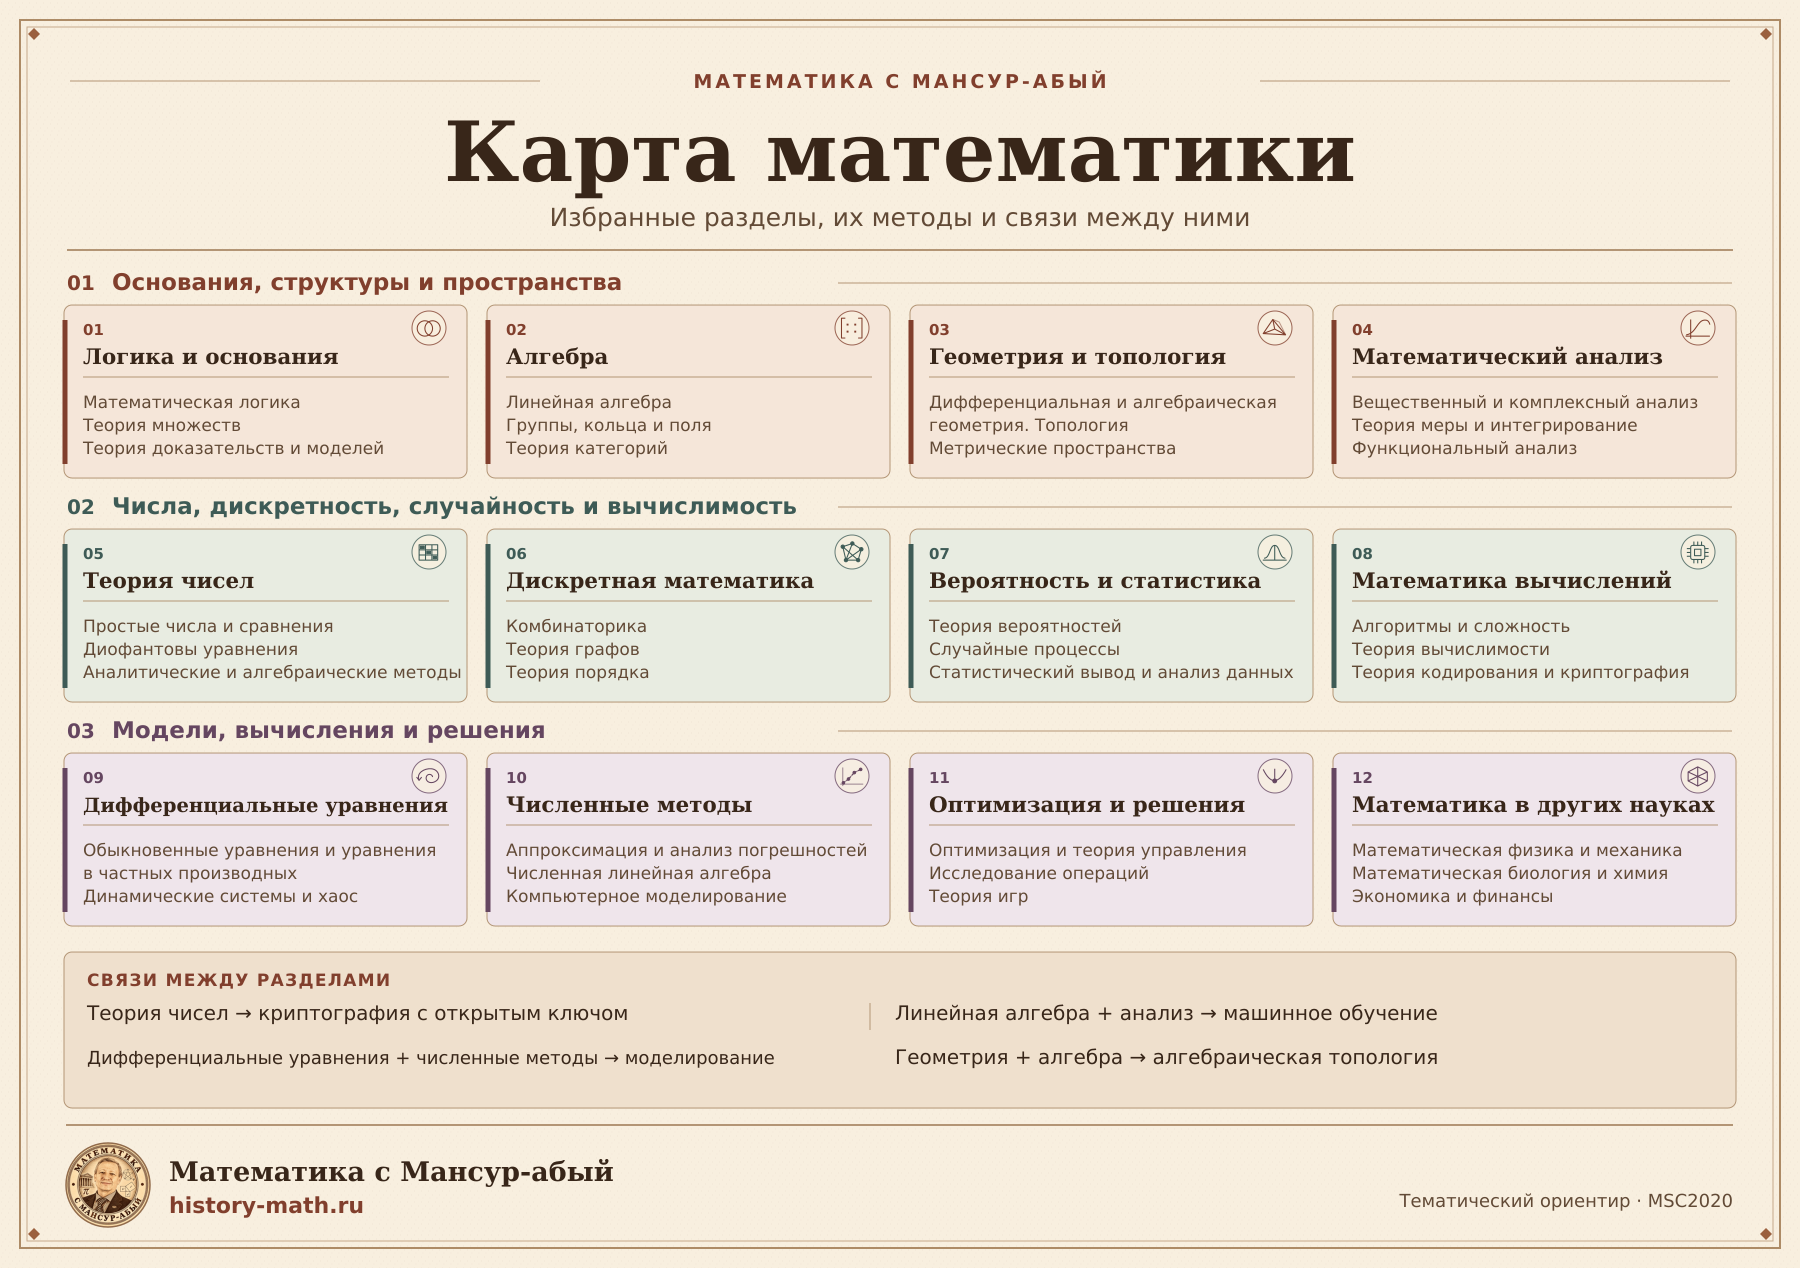
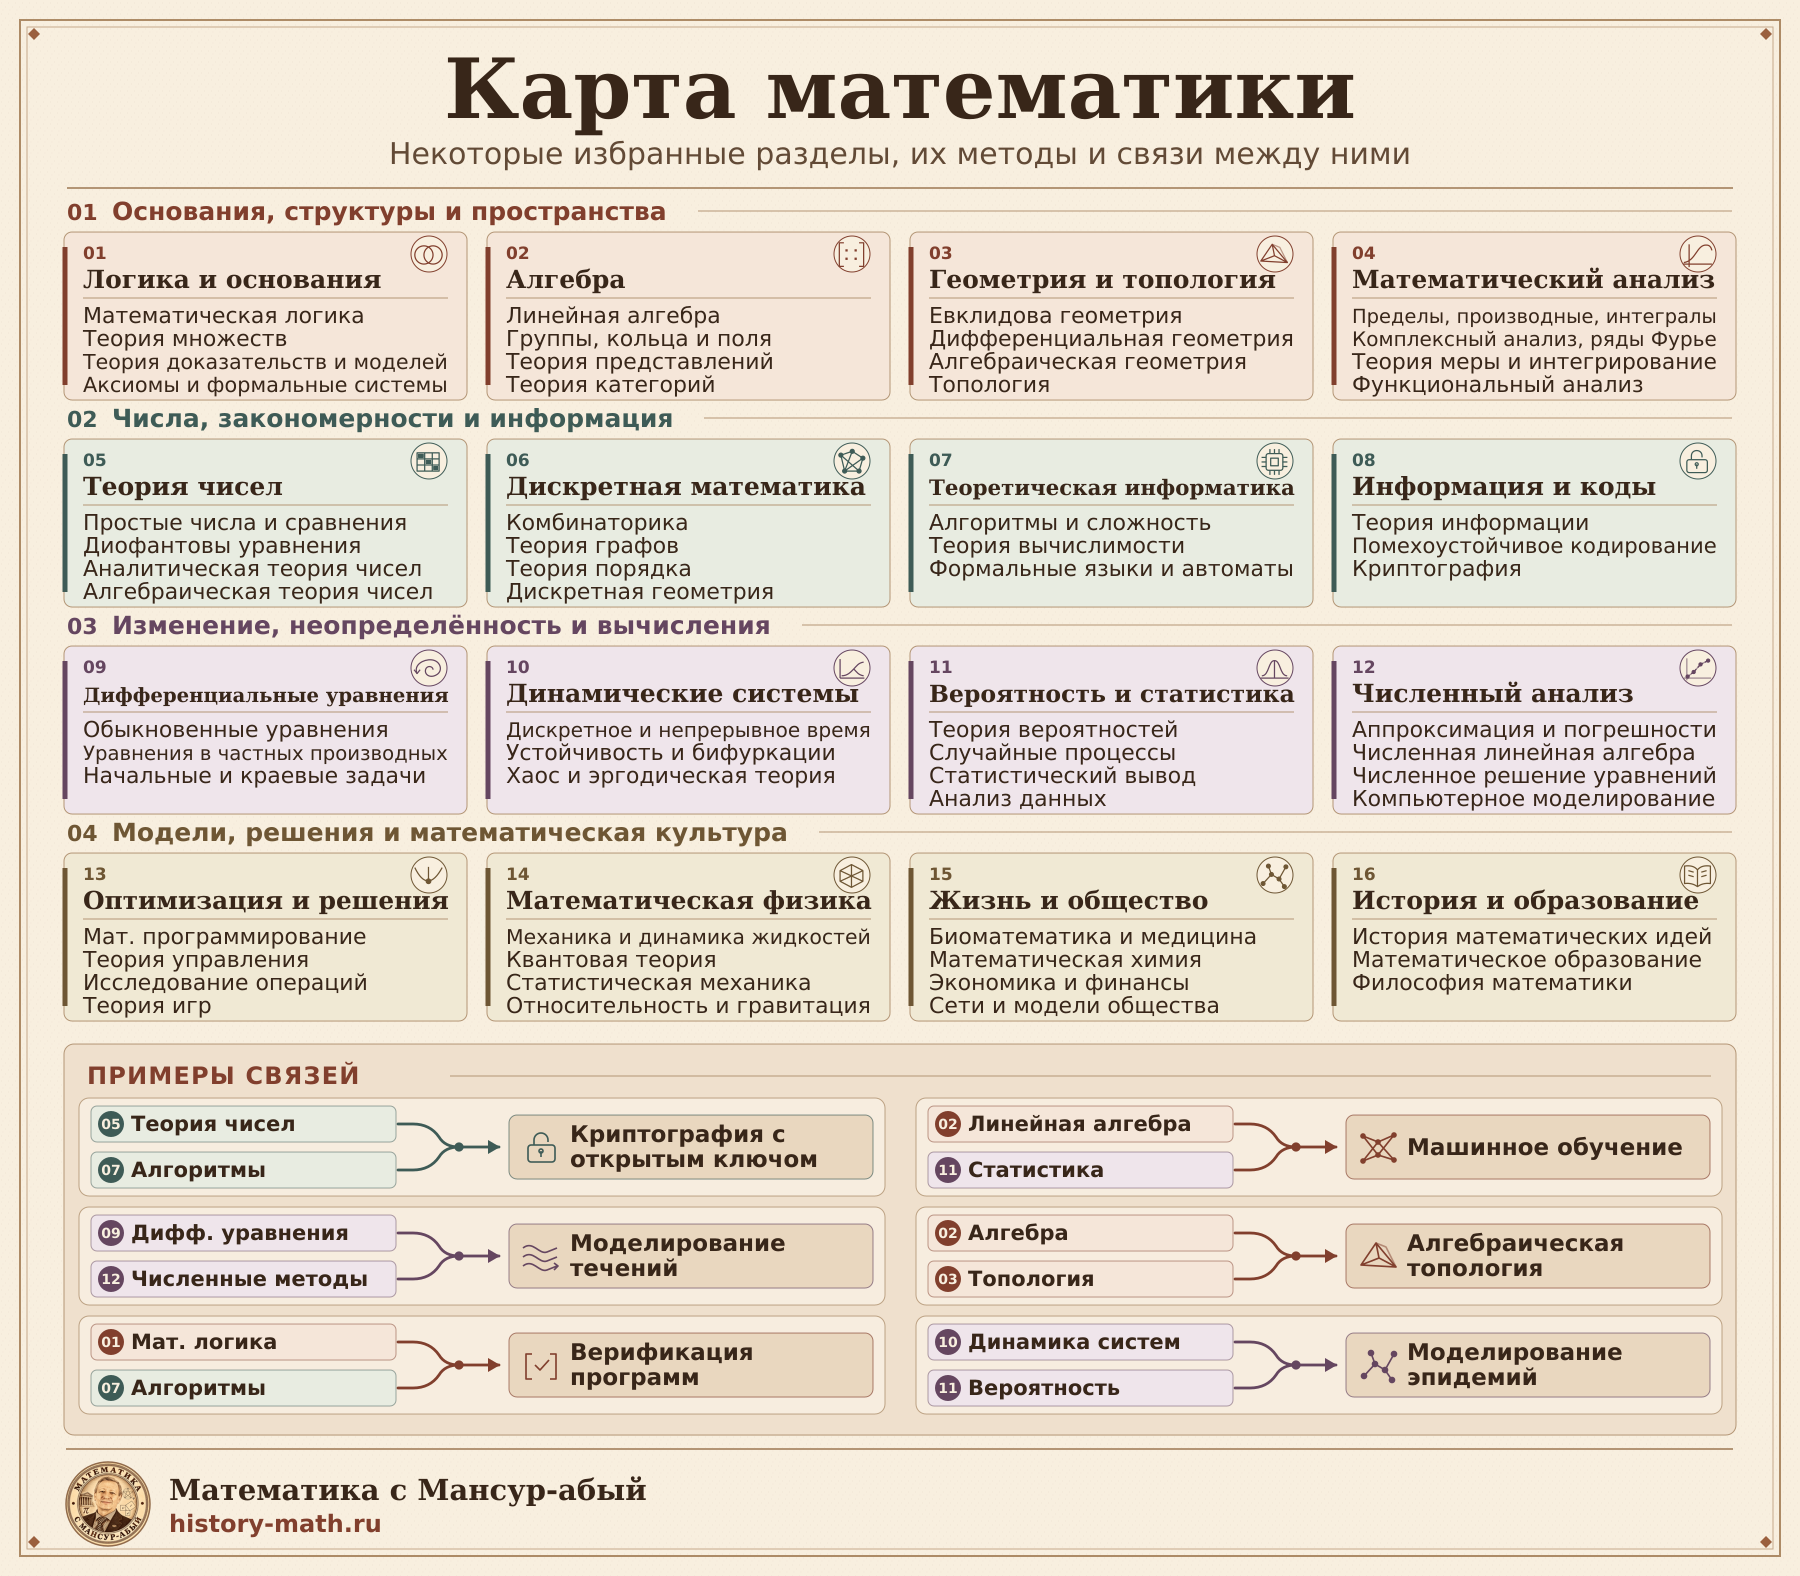
Expand the mathematics maps and diagram their connections

Changed region(s): [[0.0, 0.0, 0.9956, 1.0]]

diff --git a/site/_articles/hm-tt-46f394866e94-ru.md b/site/_articles/hm-tt-46f394866e94-ru.md
@@ -32,12 +32,11 @@ source_url: https://teletype.in/@history_math/What-is-Math
 figures:
 - id: fig-1
   path: /assets/images/hm-tt-46f394866e94/mathematics-map-ru.png
-  alt: "Карта избранных разделов математики и связей между ними"
-  caption: "Избранные разделы математики и примеры связей между ними. Тематический ориентир для карты журнала — классификация MSC2020."
-  source: "Оригинальная схема журнала. Тематический ориентир: Mathematics Subject Classification 2020."
+  alt: "Карта с 16 тематическими блоками и шестью схемами связей между разделами математики"
+  caption: "Избранные разделы математики и примеры связей между ними."
+  source: "Оригинальная иллюстрация журнала."
   credit: Математика с Мансур-абый
   rights_basis: New artwork commissioned by the journal owner for this article revision.
-  source_url: https://mathscinet.ams.org/mathscinet/msc/msc2020.html
 - id: fig-2
   path: /assets/images/hm-tt-46f394866e94/what-is-math-02.png
   alt: Михаил Васильевич Ломоносов (1711–1765). Первый русский учёный-естествоиспытатель, энциклопедист, академик. Портрет

diff --git a/site/_articles/hm-tt-46f394866e94-en.md b/site/_articles/hm-tt-46f394866e94-en.md
@@ -32,12 +32,11 @@ source_url: https://teletype.in/@history_math/What-is-Math
 figures:
 - id: fig-1
   path: /assets/images/hm-tt-46f394866e94/mathematics-map-en.png
-  alt: "A map of selected branches of mathematics and connections between them"
-  caption: "Selected branches of mathematics and examples of their connections. The journal’s map uses MSC2020 as a subject reference."
-  source: "Original diagram by Mathematics with Mansur. Subject reference: Mathematics Subject Classification 2020."
+  alt: "A map with 16 topic panels and six diagrams showing how areas of mathematics connect"
+  caption: "Some areas of mathematics and examples of how they connect."
+  source: "Original illustration by Mathematics with Mansur."
   credit: Mathematics with Mansur
   rights_basis: New artwork commissioned by the journal owner for this article revision.
-  source_url: https://mathscinet.ams.org/mathscinet/msc/msc2020.html
 - id: fig-2
   path: /assets/images/hm-tt-46f394866e94/what-is-math-02.png
   alt: 'Mikhail Vasilyevich Lomonosov (1711–1765), the first Russian natural scientist, polymath and academician.
